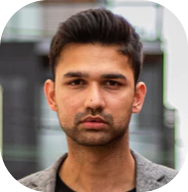
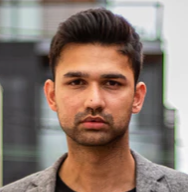
add detail page design

diff --git a/lib/pages/detail_page.dart b/lib/pages/detail_page.dart
@@ -1,0 +1,202 @@
+import 'package:flutter/material.dart';
+import 'package:streaming_app_2/utilities/colors.dart';
+import 'package:streaming_app_2/utilities/constants.dart';
+
+class DetailPage extends StatelessWidget {
+  static const routeName = 'detail-page';
+  const DetailPage({Key? key}) : super(key: key);
+
+  @override
+  Widget build(BuildContext context) {
+    PreferredSize _appBar() {
+      return PreferredSize(
+        preferredSize: const Size.fromHeight(60),
+        child: SafeArea(
+          child: AppBar(
+            backgroundColor: backgroundColor,
+            elevation: 0,
+            automaticallyImplyLeading: false,
+            centerTitle: true,
+            flexibleSpace: Container(
+              margin: EdgeInsets.only(
+                left: defaultMargin,
+                right: defaultMargin,
+                top: 20,
+              ),
+              child: Row(
+                mainAxisAlignment: MainAxisAlignment.spaceBetween,
+                children: [
+                  InkWell(
+                    onTap: () => Navigator.pop(context),
+                    child: Padding(
+                      padding: const EdgeInsets.all(8.0),
+                      child: Image.asset(
+                        'images/back_icon.png',
+                        width: 10,
+                        color: whiteColor,
+                      ),
+                    ),
+                  ),
+                  Text(
+                    'Details Movie',
+                    style: Theme.of(context).textTheme.headline6!.copyWith(
+                          fontSize: 18,
+                        ),
+                  ),
+                  Padding(
+                    padding: const EdgeInsets.all(8.0),
+                    child: Image.asset(
+                      'images/bookmark_icon.png',
+                      width: 24,
+                      color: whiteColor,
+                    ),
+                  ),
+                ],
+              ),
+            ),
+          ),
+        ),
+      );
+    }
+
+    Widget _content() {
+      Widget _categoryTile(String category) {
+        return Container(
+          margin: const EdgeInsets.only(right: 12),
+          padding: const EdgeInsets.symmetric(
+            horizontal: 12,
+            vertical: 4,
+          ),
+          decoration: BoxDecoration(
+            borderRadius: BorderRadius.circular(
+              defaultRadius,
+            ),
+            color: blackColor,
+          ),
+          child: Text(
+            category,
+            style: Theme.of(context).textTheme.bodyText1!.copyWith(
+                  fontWeight: regular,
+                ),
+          ),
+        );
+      }
+
+      return ListView(
+        padding: EdgeInsets.all(defaultMargin),
+        physics: const BouncingScrollPhysics(),
+        children: [
+          ClipRRect(
+            borderRadius: BorderRadius.circular(
+              defaultRadius,
+            ),
+            child: Image.asset(
+              'images/movie_poster.png',
+              fit: BoxFit.cover,
+            ),
+          ),
+          const SizedBox(
+            height: 12,
+          ),
+          Text(
+            'Behind Her Eyes',
+            style: Theme.of(context).textTheme.headline5,
+          ),
+          const SizedBox(
+            height: 5,
+          ),
+          Row(
+            children: [
+              Text(
+                'Director: Erik Richter Strand | ',
+                style: Theme.of(context).textTheme.bodyText1,
+              ),
+              const Icon(
+                Icons.star,
+                size: 16,
+                color: orangeColor,
+              ),
+              const SizedBox(
+                width: 2,
+              ),
+              Text(
+                '4,9',
+                style: Theme.of(context).textTheme.bodyText1,
+              ),
+            ],
+          ),
+          const SizedBox(
+            height: 12,
+          ),
+          Row(
+            children: [
+              _categoryTile('Drama'),
+              _categoryTile('Supernatural fiction'),
+            ],
+          ),
+          SizedBox(
+            height: defaultMargin,
+          ),
+          Text(
+            'Storyline',
+            style: Theme.of(context).textTheme.headline5,
+          ),
+          const SizedBox(
+            height: 10,
+          ),
+          Text.rich(
+            TextSpan(
+              text: '''Adele is a Scottish heiress whose extremely
+wealthy family owns estates and grounds.
+When she was a teenager. ''',
+              style: Theme.of(context).textTheme.bodyText1,
+              children: [
+                TextSpan(
+                  text: 'Read More',
+                  style: Theme.of(context).textTheme.bodyText1!.copyWith(
+                        color: primaryColor,
+                      ),
+                ),
+              ],
+            ),
+            textAlign: TextAlign.justify,
+          ),
+          const SizedBox(
+            height: 80,
+          ),
+        ],
+      );
+    }
+
+    Widget _watchButton() {
+      return SizedBox(
+        width: MediaQuery.of(context).size.width - (2 * defaultMargin),
+        height: 56,
+        child: ElevatedButton(
+          style: ButtonStyle(
+            backgroundColor: MaterialStateProperty.all(primaryColor),
+            shape: MaterialStateProperty.all(
+              RoundedRectangleBorder(
+                borderRadius: BorderRadius.circular(defaultRadius),
+              ),
+            ),
+          ),
+          onPressed: () {},
+          child: Text(
+            'Watch Movie',
+            style: Theme.of(context).textTheme.headline6!.copyWith(
+                  fontSize: 18,
+                ),
+          ),
+        ),
+      );
+    }
+
+    return Scaffold(
+      appBar: _appBar(),
+      body: _content(),
+      floatingActionButton: _watchButton(),
+      floatingActionButtonLocation: FloatingActionButtonLocation.centerFloat,
+    );
+  }
+}

diff --git a/lib/widgets/tv_tile.dart b/lib/widgets/tv_tile.dart
@@ -1,5 +1,6 @@
 import 'package:flutter/material.dart';
 import 'package:flutter_rating_bar/flutter_rating_bar.dart';
+import 'package:streaming_app_2/pages/detail_page.dart';
 import 'package:streaming_app_2/utilities/colors.dart';
 import 'package:streaming_app_2/utilities/constants.dart';
 
@@ -19,56 +20,62 @@ class TvTile extends StatelessWidget {
 
   @override
   Widget build(BuildContext context) {
-    return Container(
-      margin: const EdgeInsets.only(bottom: 18),
-      child: Row(
-        mainAxisAlignment: MainAxisAlignment.start,
-        crossAxisAlignment: CrossAxisAlignment.center,
-        children: [
-          ClipRRect(
-            borderRadius: BorderRadius.circular(
-              defaultRadius,
+    return InkWell(
+      onTap: () => Navigator.pushNamed(
+        context,
+        DetailPage.routeName,
+      ),
+      child: Container(
+        margin: const EdgeInsets.only(bottom: 18),
+        child: Row(
+          mainAxisAlignment: MainAxisAlignment.start,
+          crossAxisAlignment: CrossAxisAlignment.center,
+          children: [
+            ClipRRect(
+              borderRadius: BorderRadius.circular(
+                defaultRadius,
+              ),
+              child: Image.asset(
+                image,
+                width: 76,
+              ),
             ),
-            child: Image.asset(
-              image,
-              width: 76,
+            const SizedBox(
+              width: 12,
             ),
-          ),
-          const SizedBox(
-            width: 12,
-          ),
-          Column(
-            mainAxisAlignment: MainAxisAlignment.center,
-            crossAxisAlignment: CrossAxisAlignment.start,
-            children: [
-              Text(
-                category,
-                style: Theme.of(context).textTheme.bodyText2,
-              ),
-              const SizedBox(
-                height: 4,
-              ),
-              Text(
-                name,
-                style: Theme.of(context).textTheme.headline6,
-              ),
-              const SizedBox(
-                height: 4,
-              ),
-              RatingBar.builder(
-                itemSize: 18,
-                initialRating: rating,
-                minRating: 0,
-                direction: Axis.horizontal,
-                itemCount: 5,
-                unratedColor: greyColor,
-                itemBuilder: (context, _) =>
-                    const Icon(Icons.star, color: orangeColor),
-                onRatingUpdate: (rating) {},
-              ),
-            ],
-          ),
-        ],
+            Column(
+              mainAxisAlignment: MainAxisAlignment.center,
+              crossAxisAlignment: CrossAxisAlignment.start,
+              children: [
+                Text(
+                  category,
+                  style: Theme.of(context).textTheme.bodyText2,
+                ),
+                const SizedBox(
+                  height: 4,
+                ),
+                Text(
+                  name,
+                  style: Theme.of(context).textTheme.headline6,
+                ),
+                const SizedBox(
+                  height: 4,
+                ),
+                RatingBar.builder(
+                  itemSize: 18,
+                  initialRating: rating,
+                  minRating: 0,
+                  direction: Axis.horizontal,
+                  itemCount: 5,
+                  unratedColor: greyColor,
+                  itemBuilder: (context, _) =>
+                      const Icon(Icons.star, color: orangeColor),
+                  onRatingUpdate: (rating) {},
+                ),
+              ],
+            ),
+          ],
+        ),
       ),
     );
   }

diff --git a/lib/main.dart b/lib/main.dart
@@ -1,4 +1,5 @@
 import 'package:flutter/material.dart';
+import 'package:streaming_app_2/pages/detail_page.dart';
 import 'package:streaming_app_2/utilities/colors.dart';
 import 'package:streaming_app_2/utilities/text_style.dart';
 
@@ -20,6 +21,23 @@ class MyApp extends StatelessWidget {
         primaryColor: primaryColor,
       ),
       home: const HomePage(),
+      onGenerateRoute: (settings) {
+        switch (settings.name) {
+          case HomePage.routeName:
+            return MaterialPageRoute(builder: (_) => const HomePage());
+          case DetailPage.routeName:
+            return MaterialPageRoute(builder: (_) => const DetailPage());
+          default:
+            return MaterialPageRoute(
+              builder: (_) => Center(
+                child: Text(
+                  'Page not Found :(',
+                  style: Theme.of(context).textTheme.headline6,
+                ),
+              ),
+            );
+        }
+      },
     );
   }
 }

diff --git a/lib/pages/home_page.dart b/lib/pages/home_page.dart
@@ -6,6 +6,7 @@ import 'package:streaming_app_2/widgets/tv_tile.dart';
 import '../widgets/movie_card.dart';
 
 class HomePage extends StatefulWidget {
+  static const routeName = '/';
   const HomePage({Key? key}) : super(key: key);
 
   @override
@@ -28,14 +29,14 @@ class _HomePageState extends State<HomePage> {
               margin: EdgeInsets.only(
                 left: defaultMargin,
                 right: defaultMargin,
-                top: 10,
+                top: 20,
               ),
               child: Row(
                 crossAxisAlignment: CrossAxisAlignment.center,
                 children: [
                   ClipRRect(
                     borderRadius: BorderRadius.circular(
-                      defaultRadius,
+                      50,
                     ),
                     child: Image.asset(
                       'images/profile_image.png',
